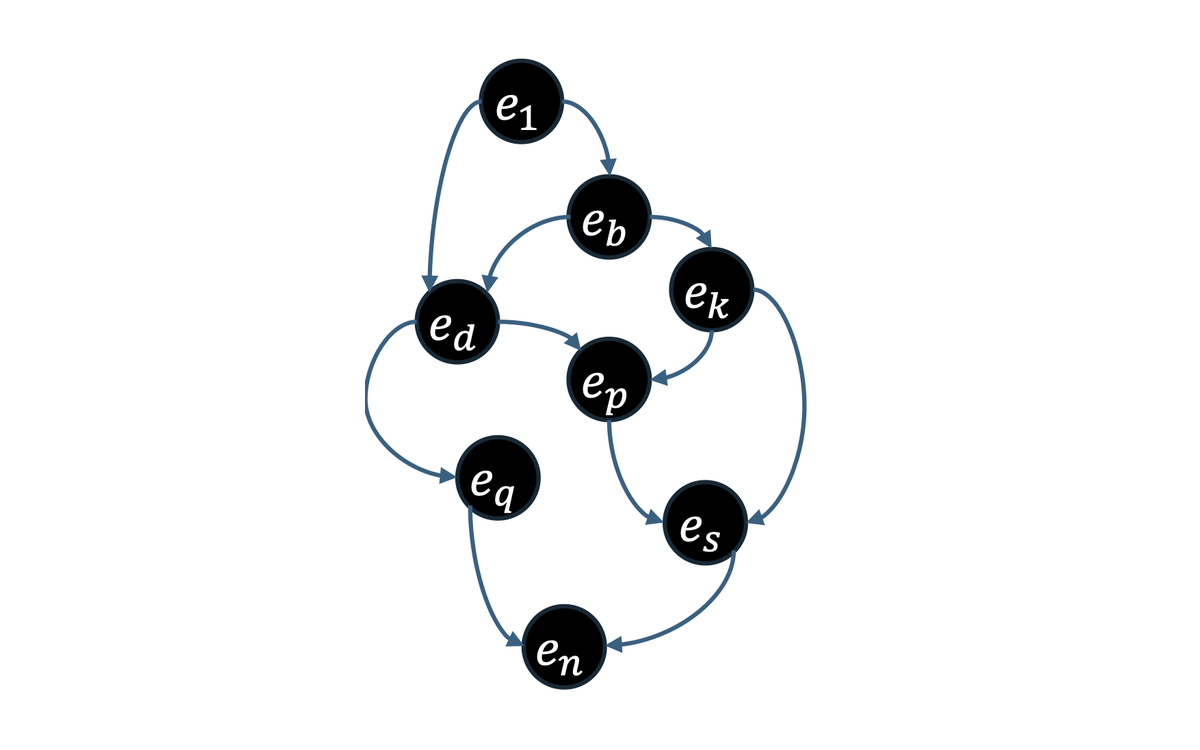
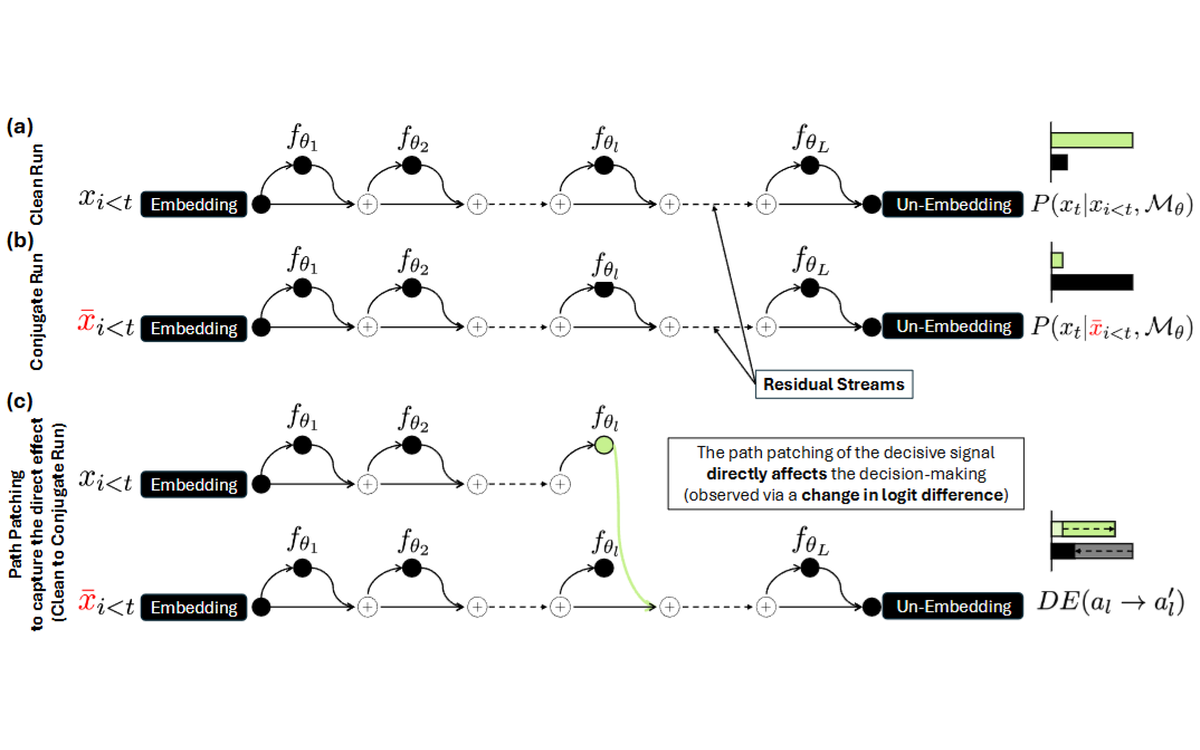
Shorten the research statement, drop the questions section, use the path-patching figure
- Lead cut to two sentences; the papers carry the detail
- Remove the 'Questions I work on' section and its styles
- Background: degree without the minor
- Foraging project: formal wording
- Commonsense tile: the paper's clean/conjugate-run path-patching figure

Claude-Session: https://claude.ai/code/session_01KY8L3rmtQEV28zjXB6PVji

diff --git a/index.html b/index.html
@@ -45,11 +45,8 @@
       <header class="intro">
         <h1>Areeb Ahmad</h1>
         <p class="lead">
-          I work on mechanistic interpretability: working out how language models
-          compute, one component and one direction at a time. Most of my work uses
-          causal interventions, and asks what those interventions actually measure.
-          The motivation is AI safety. If we are going to audit or steer models
-          through their internals, the tools we read them with need to be calibrated.
+          I work on mechanistic interpretability: how language models compute,
+          studied through causal interventions. The motivation is AI safety.
         </p>
         <p class="position">
           <strong>Research intern, <a href="https://www.lexsi.ai">Lexsi Labs</a></strong>,
@@ -64,36 +61,6 @@
         </ul>
       </header>
 
-      <section aria-labelledby="questions">
-        <h2 id="questions">Questions I work on</h2>
-        <ul class="questions">
-          <li>
-            <h3>What does an ablation measure?</h3>
-            <p>
-              Conventional ablations are uncalibrated points on a single dose axis.
-              Read that way, apparent self-repair is a fixed gain that can be
-              predicted from the weights.
-            </p>
-          </li>
-          <li>
-            <h3>What is the right unit of analysis?</h3>
-            <p>
-              Attention heads and MLPs are not atomic. Decomposed into singular
-              directions, a head that looks like it does one thing can carry several
-              overlapping subfunctions.
-            </p>
-          </li>
-          <li>
-            <h3>When does a model commit to an answer, and how sure is it?</h3>
-            <p>
-              Confidence is recalibrated in the upper layers after the answer is
-              already settled, and a low-dimensional direction in the residual stream
-              controls it. Path patching shows where a commonsense decision starts and
-              which later layers reinforce it.
-            </p>
-          </li>
-        </ul>
-      </section>
     </main>
   </div>
 
@@ -202,7 +169,7 @@
         </a>
         <div>
           <p>
-            An undergraduate project from 2021 that I'm still fond of. When should a
+            An undergraduate project from 2021. When should a
             forager leave a patch that is running out and go looking for a better one?
             I framed the problem from behavioural ecology as a Markov decision process
             in a 20k×20k environment and trained a Double DQN agent on it.
@@ -227,7 +194,7 @@
     <section aria-labelledby="background" class="background">
       <h2 id="background">Background</h2>
       <p>
-        I studied at IIT Kanpur (B.Tech with a minor in Machine Learning, 2018–2023). From 2022 to 2025 I worked in the Exploration Lab with
+        I studied at IIT Kanpur (B.Tech, 2018–2023). From 2022 to 2025 I worked in the Exploration Lab with
         Ashutosh Modi, first as an undergraduate researcher and then as a research
         associate, on causal and commonsense reasoning in language models and RL
         agents. In 2021 I interned with Jyotirmoy Deshmukh at the CPS-VIDA lab at USC.

diff --git a/style.css b/style.css
@@ -188,14 +188,6 @@ em.var { font-style: italic; }
 main > section, .foraging, .background { padding-top: 3.5rem; }
 .foraging { padding-top: 4rem; }
 
-/* ---------- questions ---------- */
-
-.questions { margin: 0; padding: 0; list-style: none; }
-.questions li { padding: 1.1rem 0; border-top: 1px solid var(--rule); }
-.questions li:last-child { border-bottom: 1px solid var(--rule); }
-.questions h3 { margin-bottom: 0.35rem; }
-.questions p { margin: 0; }
-
 /* ---------- papers plate ---------- */
 
 .papers-band {

diff --git a/README.md b/README.md
@@ -4,7 +4,7 @@ Personal research site, served by GitHub Pages from the `main` branch. Plain HTM
 
 | File | What it is |
 | --- | --- |
-| `index.html` | Home: research statement, questions, papers with figures, background |
+| `index.html` | Home: research statement, papers with figures, foraging project, background |
 | `publications.html` | Full publication list by year, with links and code, plus earlier projects |
 | `reading.html` | Bookshelf |
 | `style.css` | Shared styles, light and dark |
